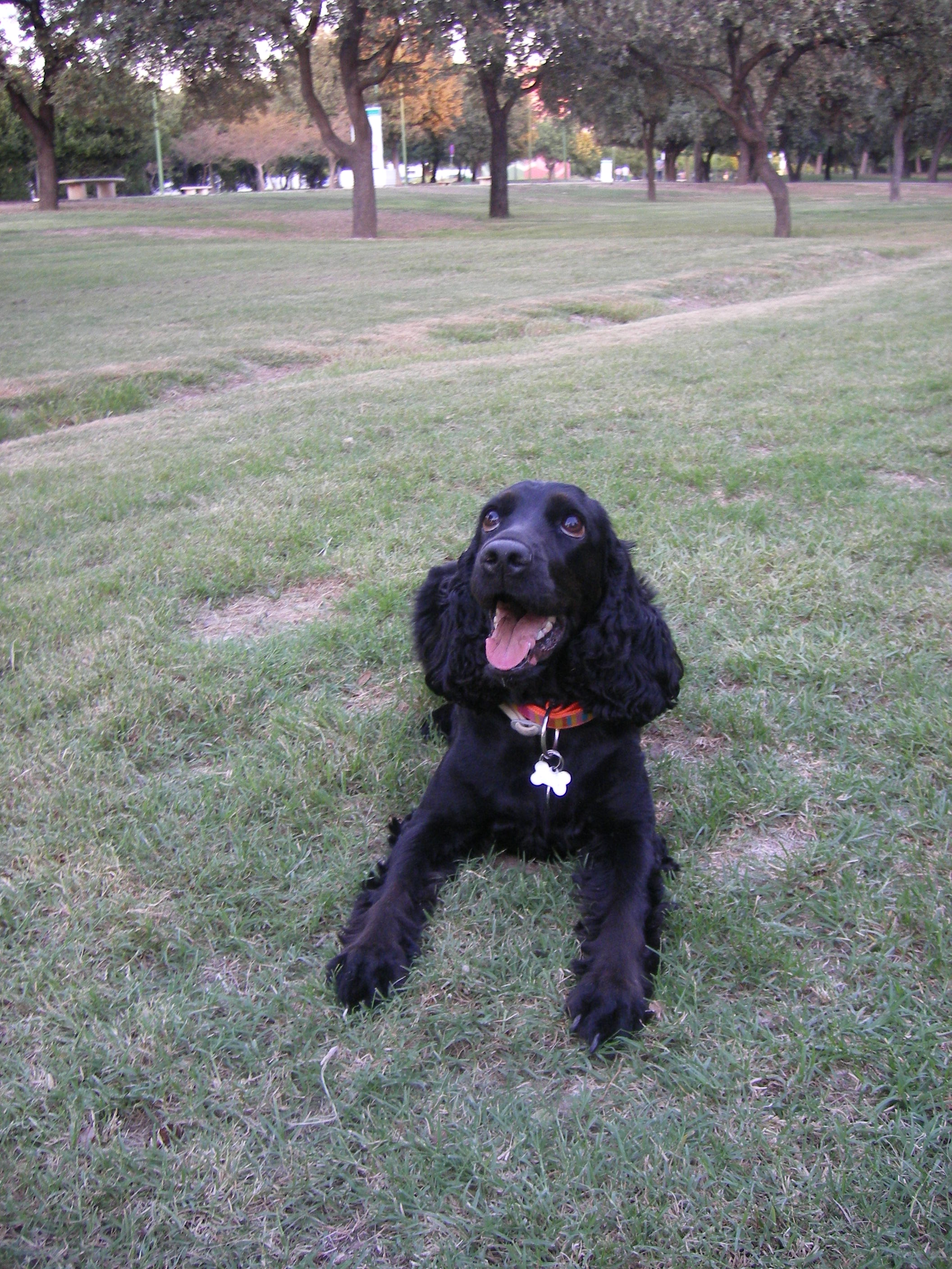
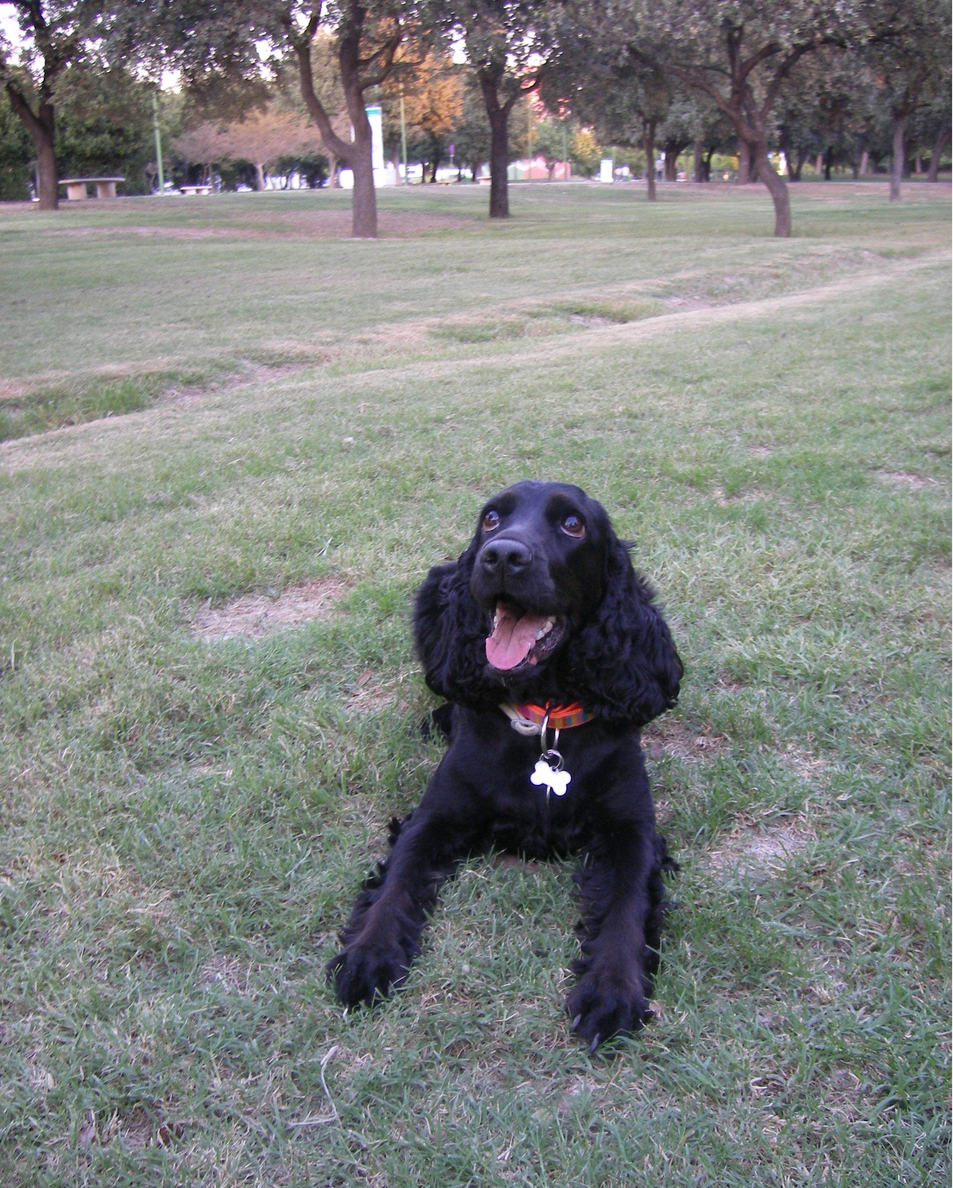
Prueba

diff --git a/index.html b/index.html
@@ -47,7 +47,7 @@
 <body style="background-color:lavender;">
 
   <center>
-  <img src="crialedo.github.io/img/foto.JPG" alt="Moka" style="width:234px;height:312px;">
+  <img src="crialedo.github.io/img/foto.JPG" alt="Moka" style="width:234px;height:293px;">
   </center>
 
   <div id="header">
